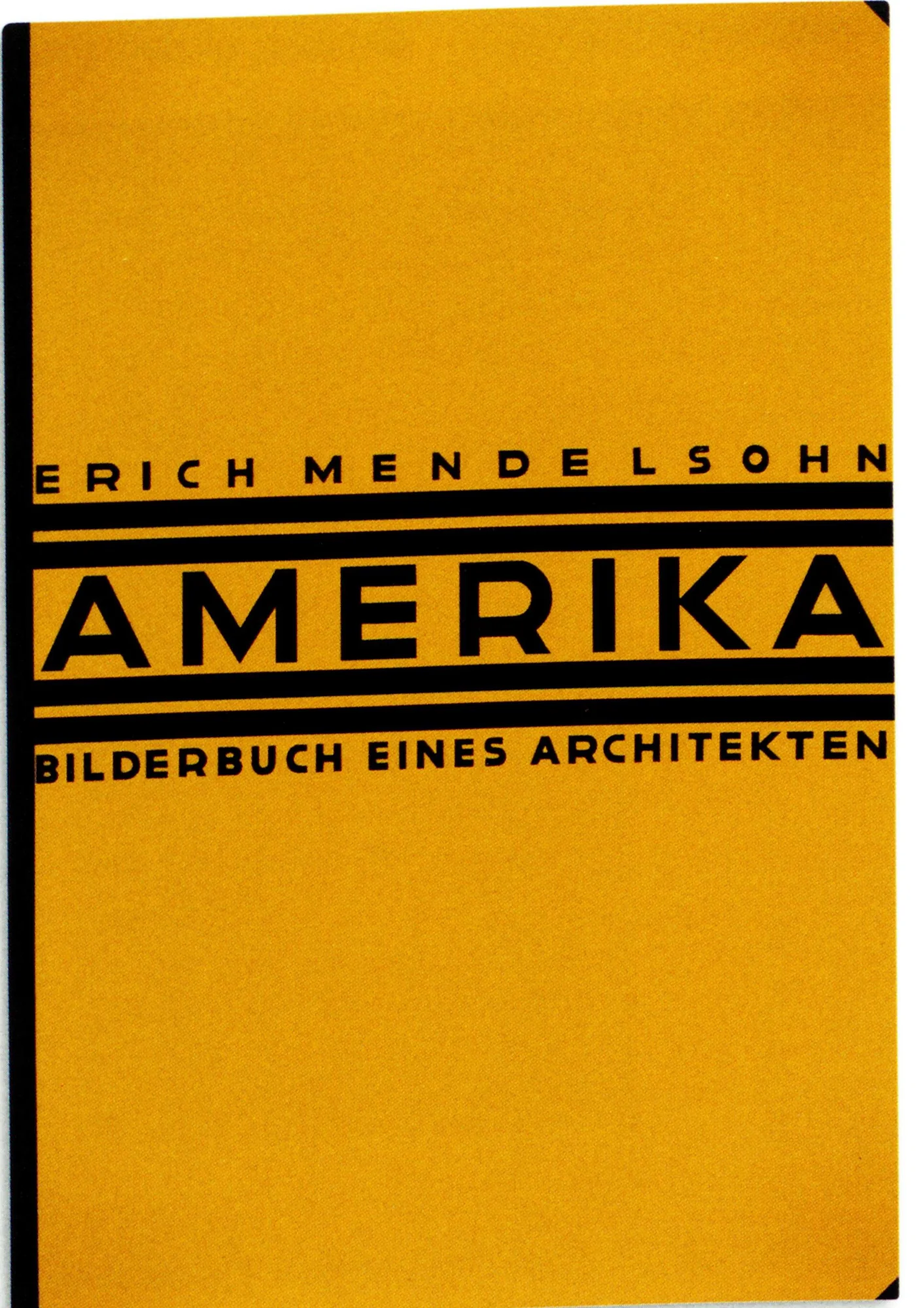
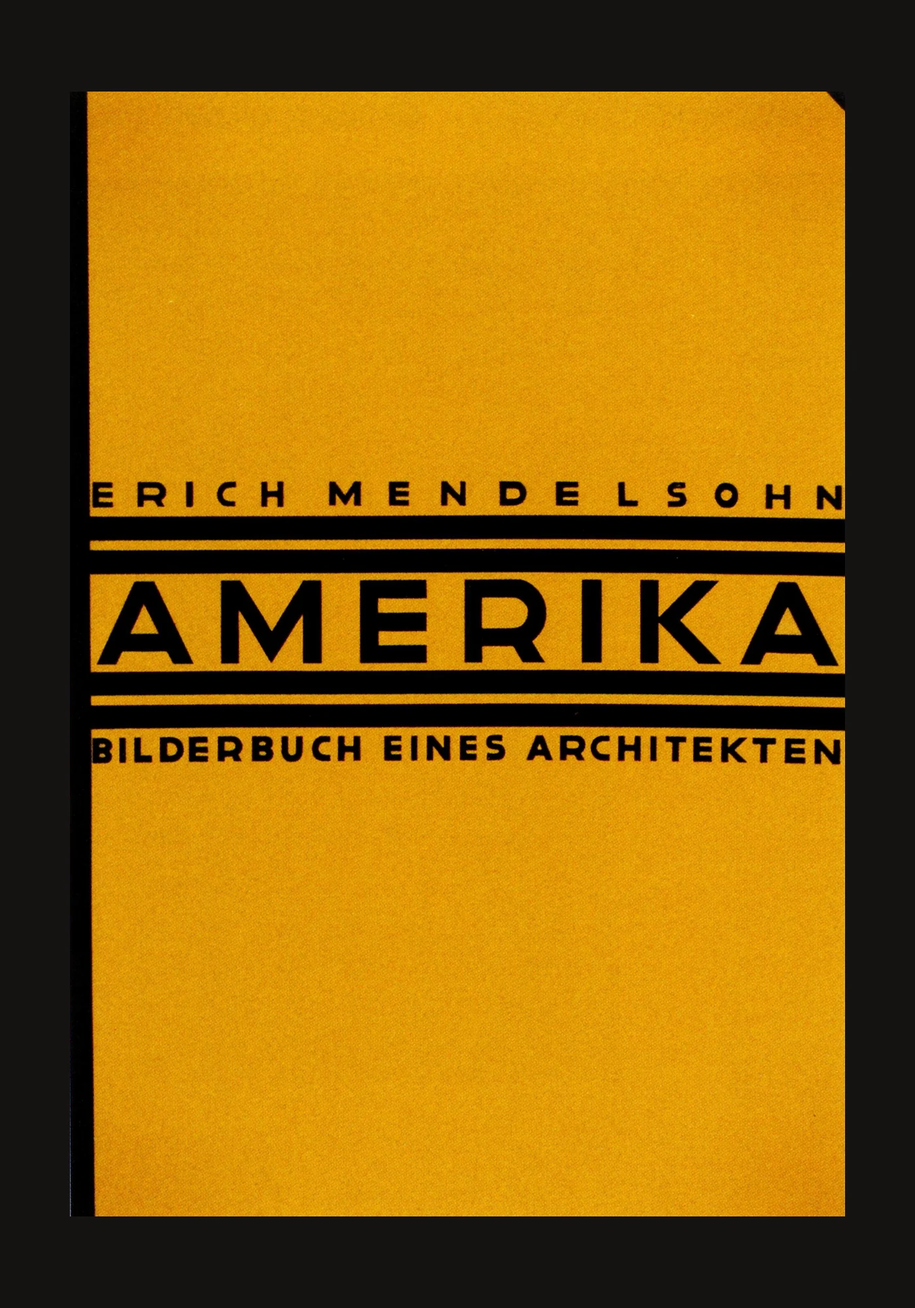
Amerika cover straightened and set on black
Claude-Session: https://claude.ai/code/session_01QKKmxx3rpN81nu6HiWpV3P

diff --git a/index.html b/index.html
@@ -735,7 +735,7 @@ window.EXHIBITION = {
               alt: "Cover of Erich Mendelsohn’s book Amerika, 1926",
               works: [{ title: "Amerika. Bilderbuch eines Architekten", medium: "photographs from his journey of 1924" }],
               paragraphs: ["In 1924 he travelled to the United States and came back with photographs of grain silos, skyscrapers and New York at night. The book, published in 1926, showed German readers the city he wanted to build: tall, lit, in motion."],
-              credits: ["Cover, 1926. Wikimedia Commons, public domain."] },
+              credits: ["Cover, 1926. Wikimedia Commons, public domain. Straightened (perspective corrected) and set on black."] },
             { id: "walk-petersdorff", artist: "Wrocław (Breslau)", src: "assets/img/city-petersdorff.webp", ratio: 1.33,
               alt: "The former Petersdorff department store in Wrocław, now called Kameleon, with its projecting rounded corner",
               works: [{ title: "Department store Rudolf Petersdorff", medium: "1927–1928" }],
